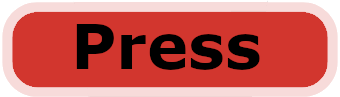
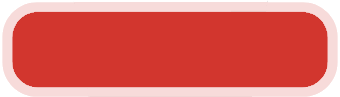
change UI change botton position

Changed region(s): [[0.2059, 0.2474, 0.7647, 0.7423]]

diff --git a/src/app/pages/land/land/land-page.component.ts b/src/app/pages/land/land/land-page.component.ts
@@ -1,5 +1,6 @@
 import { Component, OnInit, HostListener, ElementRef, ViewChild } from '@angular/core';
 import { ActivatedRoute, Router } from '@angular/router';
+import { TranslateService } from '@ngx-translate/core';
 import { EventsService } from 'app/shared/services/events.service';
 import { AnimationOptions } from 'ngx-lottie';
 import { AnimationItem } from 'lottie-web';
@@ -14,7 +15,7 @@ export class LandPageComponent implements OnInit {
     lang: string = 'en';
     news: any = [];
     fragment: string;
-    @ViewChild('containerboton', { static: true }) container: ElementRef;
+    @ViewChild('containerboton') containerBoton: ElementRef;
     containerVisible = true;
     private audioIntro = new Audio('assets/img/home/animation/sonido1.mp3');
 
@@ -32,8 +33,12 @@ export class LandPageComponent implements OnInit {
     bottomPosition: string = '0px';
     
 
-    constructor(private eventsService: EventsService, private route: ActivatedRoute, private router: Router) {
-        this.lang = sessionStorage.getItem('lang');
+    constructor(private eventsService: EventsService, private route: ActivatedRoute, private router: Router, public translate: TranslateService) {
+        //this.lang = sessionStorage.getItem('lang');
+        if(sessionStorage.getItem('lang') == null){
+          sessionStorage.setItem('lang', this.translate.store.currentLang);
+        }
+        this.lang = this.translate.store.currentLang;
     }
 
 
@@ -43,24 +48,26 @@ export class LandPageComponent implements OnInit {
     }
 
     async calculateBottomPosition() {
-      await this.delay(200);
-      document.getElementById('home').scrollIntoView({behavior: "smooth"});
+      await this.delay(100);
       setTimeout(() => {
-        // Busca dentro del contenedor de Lottie por el elemento SVG específico
-        // Nota: Este selector puede necesitar ajustes para apuntar al SVG correcto
-        const svgElement = document.querySelector('svg > g[clip-path*="__lottie_element_"]');
-        if (svgElement) {
-          const svgRect = svgElement.getBoundingClientRect();
-          const viewportHeight = window.innerHeight;
-          const viewportWeight = window.innerWidth;
-          // Calcula la posición bottom basada en la altura del viewport y la posición del SVG
-          let additionalSpace = 13*10; // Valor por defecto para pantallas grandes
-          additionalSpace = viewportHeight/additionalSpace;
-          if(viewportWeight>1000){
-            additionalSpace = additionalSpace+10;
+        // Asegúrate de que ya se haya establecido la referencia a containerBoton
+        if (this.containerBoton && this.containerBoton.nativeElement) {
+          const containerRect = this.containerBoton.nativeElement.getBoundingClientRect();
+          // Ahora usamos las dimensiones del contenedor para los cálculos
+          const containerHeight = containerRect.height;
+    
+          const svgElement = document.querySelector('svg > g[clip-path*="__lottie_element_"]');
+          if (svgElement) {
+            const svgRect = svgElement.getBoundingClientRect();
+            // Ya no dependemos de viewportHeight sino de containerHeight
+            let additionalSpace = 13 * 10; // Valor por defecto para pantallas grandes
+            additionalSpace = containerHeight / additionalSpace;
+            if (containerRect.width > 1000) {
+              additionalSpace = additionalSpace + 10;
+            }
+            const bottom = containerHeight - (svgRect.bottom - containerRect.top) + additionalSpace; // Ajustado para usar la altura del contenedor
+            this.bottomPosition = `${bottom}px`;
           }
-          const bottom = viewportHeight - svgRect.bottom + additionalSpace; // 20px por encima del SVG
-          this.bottomPosition = `${bottom}px`;
         }
       });
     }

diff --git a/src/app/pages/land/ecosystem/ecosystem-page.component.html b/src/app/pages/land/ecosystem/ecosystem-page.component.html
@@ -1,6 +1,6 @@
-<div class="row pt-5  pb-5 m--70"
+<div class="row pt-5 pb-5 m--70"
             style="position: relative;">
-            <div class="m-70 row offset-lg-1 col-lg-10 mb-4 text-center">
+            <div class="m-70 offset-lg-1 col-lg-10 mb-4 text-center">
                 <div class="col-md-12 pb-5">
                     <h1 class="text-bold-500 pb-3"><span class="primary"
                             style="font-size: inherit !important;"><strong>{{'f29.t7.1' | translate }}</strong></span></h1>
@@ -47,7 +47,7 @@
 
                     <h4 class="text-bold-500 mt-5 pb-3"><strong>{{'f29.t7.4' | translate }}</strong></h4>
                     <div class="row center-elements pad-logos">
-                        <div class="col-6 offset-md-4 col-sm-4 mb-3 p-4">
+                        <div class="col-12 mb-3 p-4">
                           <img class="img-responsive" alt="logo duchenne"  src='assets/img/home/associations/parent.webp'>
                         </div>
                       </div>

diff --git a/src/app/pages/land/land/land-page.component.html b/src/app/pages/land/land/land-page.component.html
@@ -1,4 +1,4 @@
-<div #containerboton class="containerboton">
+<div #containerboton class="containerboton" id="containerboton">
     <div *ngIf="showPart1; else part2">
       <ng-lottie class="ani" [options]="part1Options" (animationCreated)="animationCreated($event)"></ng-lottie>
     </div>
@@ -7,10 +7,11 @@
     </ng-template>
     
     <span *ngIf="showPart1" class="btnaction pointer" [style.bottom]="bottomPosition" (click)="toggleAnimation()">
-        <img src="assets/img/home/animation/btn.png" />
+        <img *ngIf="lang=='en'" src="assets/img/home/animation/btn_en.png" />
+        <img *ngIf="lang!='en'" src="assets/img/home/animation/btn_es.png" />
     </span>
     <div *ngIf="showPart1" class="col-md-12 pt-3 center-elements pl-3">
-        <h1 class="text-bold-700">Pulsa el botón para tomar el control de tus datos</h1>
+        <h1 class="text-bold-700">{{'f29.demot' | translate }}</h1>
       </div>
   </div>
   <a id="home" class="anchor_tags"></a>

diff --git a/src/app/pages/land/news/news-page.component.html b/src/app/pages/land/news/news-page.component.html
@@ -25,16 +25,17 @@
     </div>
   </div>
 </section>-->
-<section class="">
-  <div class="row offset-lg-1 col-lg-10 pt-2 pb-5">
-    <!--*ngFor="let country of countries; let i=index"-->
-    <span class="col-md-4 text-left mb-5" *ngFor="let new of news; let i=index">
+<section class="pt-2 pb-5">
+  <div class="offset-lg-1 col-lg-10">
+    <div class="row">
+      <span class="col-md-4 text-left mb-5" *ngFor="let new of news; let i=index">
         <img [src]="new.img"  alt="" class="imageclass pointer" [routerLink]="['/news/' + new.title, new.id]">
         <p class="text-bold-500 mt-2 pointer" [routerLink]="['/news/' + new.title, new.id]"><strong>{{new.title}}</strong></p>
         <p class="text-muted">{{new.date}}</p>
         <p>{{new.resume}}</p>
         <a [routerLink]="['/news/' + new.title, new.id]">{{'f29.t6.3' | translate }} » </a>
     </span>
+    </div>    
   </div>
 </section>
 <section class="pt-5 pb-5">

diff --git a/src/app/pages/land/iniciatives/iniciatives-page.component.html b/src/app/pages/land/iniciatives/iniciatives-page.component.html
@@ -1,4 +1,4 @@
-<div class="row offset-lg-2 col-lg-8 mb-4 margin-0 text-center m-50">
+<div class="offset-lg-2 col-lg-8 mb-4 margin-0 text-center m-50">
     <div class="col-lg-12">
         <h1 class="text-bold-500 mt-5 pb-3">{{'f29.t2.1' | translate }} <span class="primary"
                 style="font-size: inherit !important;"><strong>{{'f29.t2.2' | translate }}</strong></span></h1>

diff --git a/src/app/pages/land/awards/awards-page.component.html b/src/app/pages/land/awards/awards-page.component.html
@@ -1,4 +1,4 @@
-<div class="row pt-5 offset-lg-1 col-lg-10 mb-4 margin-0 text-center">
+<div class="pt-5 offset-lg-1 col-lg-10 mb-4 margin-0 text-center">
     <div class="col-md-12 pb-5">
         <h1 class="text-bold-500 pb-3"><span class="primary"
                 style="font-size: inherit !important;"><strong>{{'f29.t8.1' | translate }}</strong></span></h1>

diff --git a/src/app/pages/land/news/news-page.component.scss b/src/app/pages/land/news/news-page.component.scss
@@ -12,7 +12,7 @@ p {
 
 .imageclass
 {
-  width: 100%;
+  width: 95%;
   height: 30vw;
   object-fit: cover;
 
